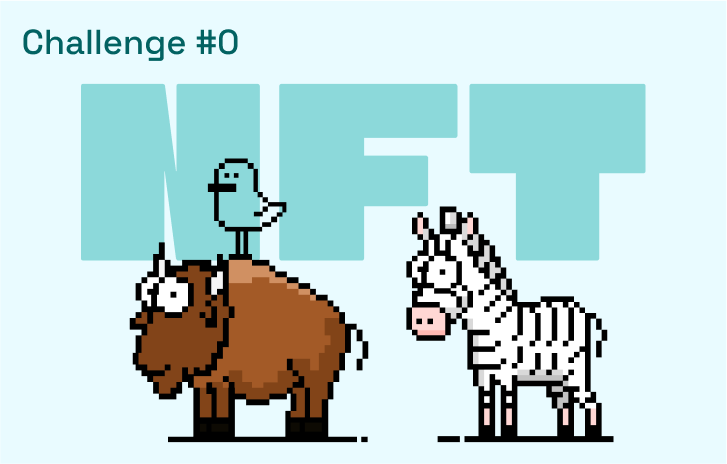
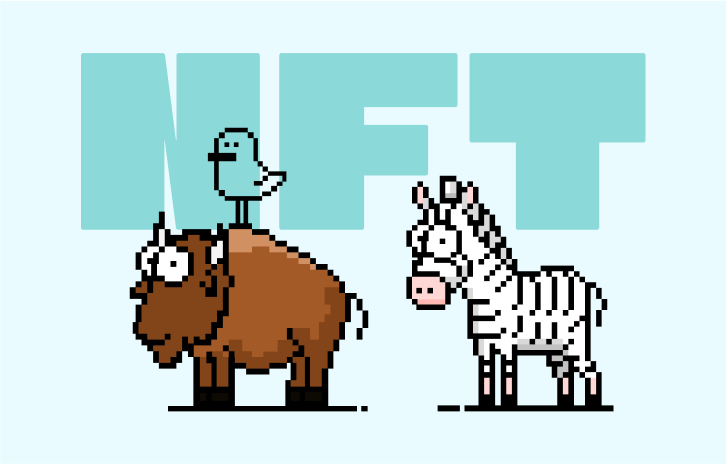
Delete challenge # from the assets

Changed region(s): [[0.0303, 0.0603, 0.9078, 0.9655], [0.4842, 0.2112, 0.8473, 0.9655], [0.8171, 0.3017, 0.9078, 0.3922]]

diff --git a/README.md b/README.md
@@ -1,6 +1,6 @@
 # 🚩 Challenge #0: 🎟 Simple NFT Example
 
-![readme-0](https://github.com/scaffold-eth/se-2-challenges/assets/80153681/375b7797-6839-43cd-abe5-fca94d88e300)
+![readme-0](https://github.com/user-attachments/assets/afb55d7f-ab18-491c-9d49-2e98957566dd)
 
 📚 This tutorial is meant for developers that already understand the [ 🖍 basics ](https://www.youtube.com/watch?v=MlJPjJQZtC8).
 
@@ -176,7 +176,7 @@ yarn test
 
 #### Configuration of Third-Party Services for Production-Grade Apps.
 
-By default, 🏗 Scaffold-ETH 2 provides predefined API keys for popular services such as Alchemy and Etherscan. This allows you to begin developing and testing your applications more easily, avoiding the need to register for these services.  
+By default, 🏗 Scaffold-ETH 2 provides predefined API keys for popular services such as Alchemy and Etherscan. This allows you to begin developing and testing your applications more easily, avoiding the need to register for these services.
 This is great to complete your **SpeedRunEthereum**.
 
 For production-grade applications, it's recommended to obtain your own API keys (to prevent rate limiting issues). You can configure these at:
